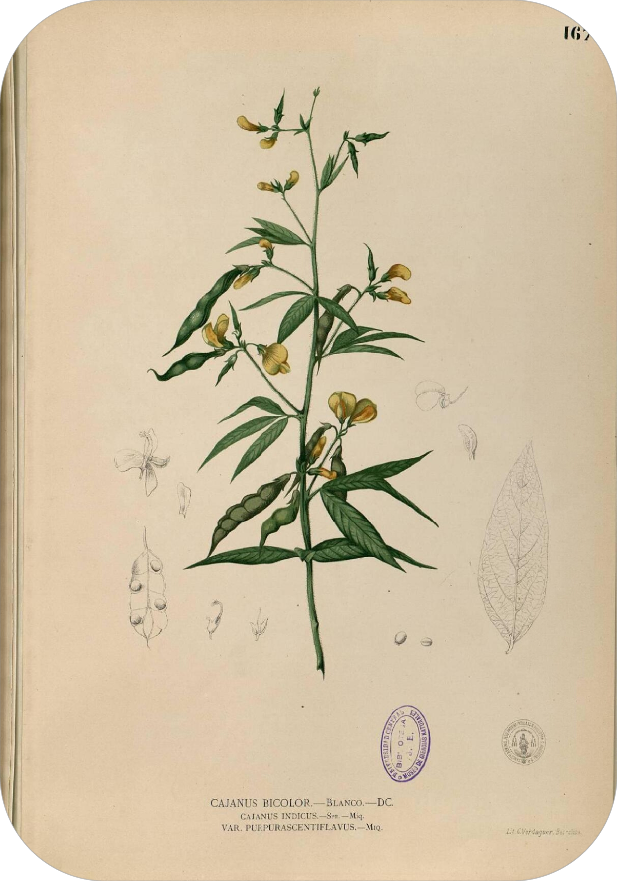
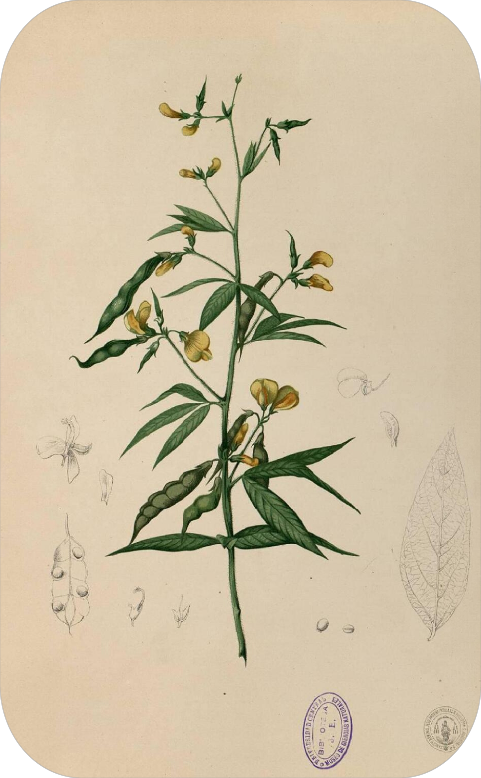
Correct image suffix function

diff --git a/image_manipulation.py b/image_manipulation.py
@@ -2,14 +2,15 @@ from PIL import Image
 import pathlib
 import pandas as pd
 
-imageSuffixes = ['tif','jpeg','jpg','png','webp','gif']
+imageSuffixes = ['.tif','.tiff','.jpeg','.jpg','.png','.webp','.gif']
 
-def give_image_rounded_corners(new_filepath, original_filepath, corner_mask_filepath, image_name):
+def give_image_rounded_corners(new_filepath, original_filepath, corner_mask_filepath, image_name: str):
 
-    file_name = getFileNameWithSuffix(original_filepath, image_name)
+    image_name = getImageNameWithSuffix(original_filepath, image_name)
+    original_image_file_path = original_filepath + image_name
 
     try:
-        image = Image.open(pathlib.Path(file_name)) 
+        image = Image.open(pathlib.Path(original_image_file_path)) 
         corner_mask = Image.open(pathlib.Path(corner_mask_filepath))
 
         image_width, image_height = image.size
@@ -18,33 +19,34 @@ def give_image_rounded_corners(new_filepath, original_filepath, corner_mask_file
         image.paste(corner_mask, (0,0), mask=corner_mask)
         image.save(pathlib.Path(new_filepath + image_name))
     except:
-        print(f"Something went wrong with giving the {file_name} image rounded corners. Rounded corners skipped.")
+        if not pathlib.Path(original_image_file_path).exists():
+            print(f"File {original_image_file_path} does not exist.")
+        print(f"Something went wrong with giving the {original_image_file_path} image rounded corners. Rounded corners skipped.")
 
-def getFileNameWithSuffix(original_filepath, image_name) -> str:
+def getImageNameWithSuffix(original_filepath: str, image_name: str) -> str:
     if "." in image_name :
-            return original_filepath + image_name
+            return image_name
 
-    file_name = original_filepath + image_name
     for suffix in imageSuffixes:
-        if pathlib.Path(file_name + suffix).exists():
-            file_name += suffix
+        if pathlib.Path(original_filepath + image_name + suffix).exists():
+            return image_name + suffix
 
-    return file_name
+    return image_name
 
 
-def make_images_transparent(filepath, image_name, alpha : int):
+def make_images_transparent(filepath: str, image_name: str, alpha : int):
 
-    full_file_name = getFileNameWithSuffix(filepath, image_name)
+    image_name = getImageNameWithSuffix(filepath,image_name)
     try:
-        back_image = Image.open(pathlib.Path(full_file_name)) 
+        back_image = Image.open(pathlib.Path(filepath + image_name)) 
         back_image = back_image.convert("RGBA")
         back_image.putalpha(alpha)  
 
         if image_name.split('.')[1] != 'png':
             image_name = image_name.split('.')[0] + ".png"
-        back_image.save(pathlib.Path(full_file_name))
+        back_image.save(pathlib.Path(filepath + image_name))
     except:
-        print(f"Something went wrong with making the {full_file_name} image transparent. A blank page will be used instead of this image in the output pdf. Please check your database.csv and image names and try again.")
+        print(f"Something went wrong with making the {filepath + image_name} image transparent. A blank page will be used instead of this image in the output pdf. Please check your database.csv and image names and try again.")
 
 
 if __name__ == "main":

diff --git a/Main.py b/Main.py
@@ -28,11 +28,14 @@ page_height = 595 #A4 height
 
 print(f"Giving images rounded corners and making background images transparent.")
 for index, row in df.iterrows():
-    back_image_filename = str(row["imageBack"])
-    front_image_filename = str(row["imageFront"])
-    give_image_rounded_corners(filepath_back, filepath_original_images, rounded_corners_filepath, back_image_filename)
-    give_image_rounded_corners(filepath_front, filepath_original_images, rounded_corners_filepath, front_image_filename)
-    make_images_transparent(filepath_back, back_image_filename, chosen_transparency) 
+    back_image_filename: str | None = row["imageBack"]
+    front_image_filename: str | None = row["imageFront"]
+
+    if isinstance(back_image_filename,str):
+        give_image_rounded_corners(filepath_back, filepath_original_images, rounded_corners_filepath, back_image_filename)
+        make_images_transparent(filepath_back, back_image_filename, chosen_transparency) 
+    if isinstance(front_image_filename,str):    
+        give_image_rounded_corners(filepath_front, filepath_original_images, rounded_corners_filepath, front_image_filename)
 
 full_output_filepath : str = create_flashcards(df, font, italic_font, page_width, page_height, one_card_per_page_output_file_name)
 transform_pdf_into_multiple_pages(cards_per_A4_page, full_output_filepath)